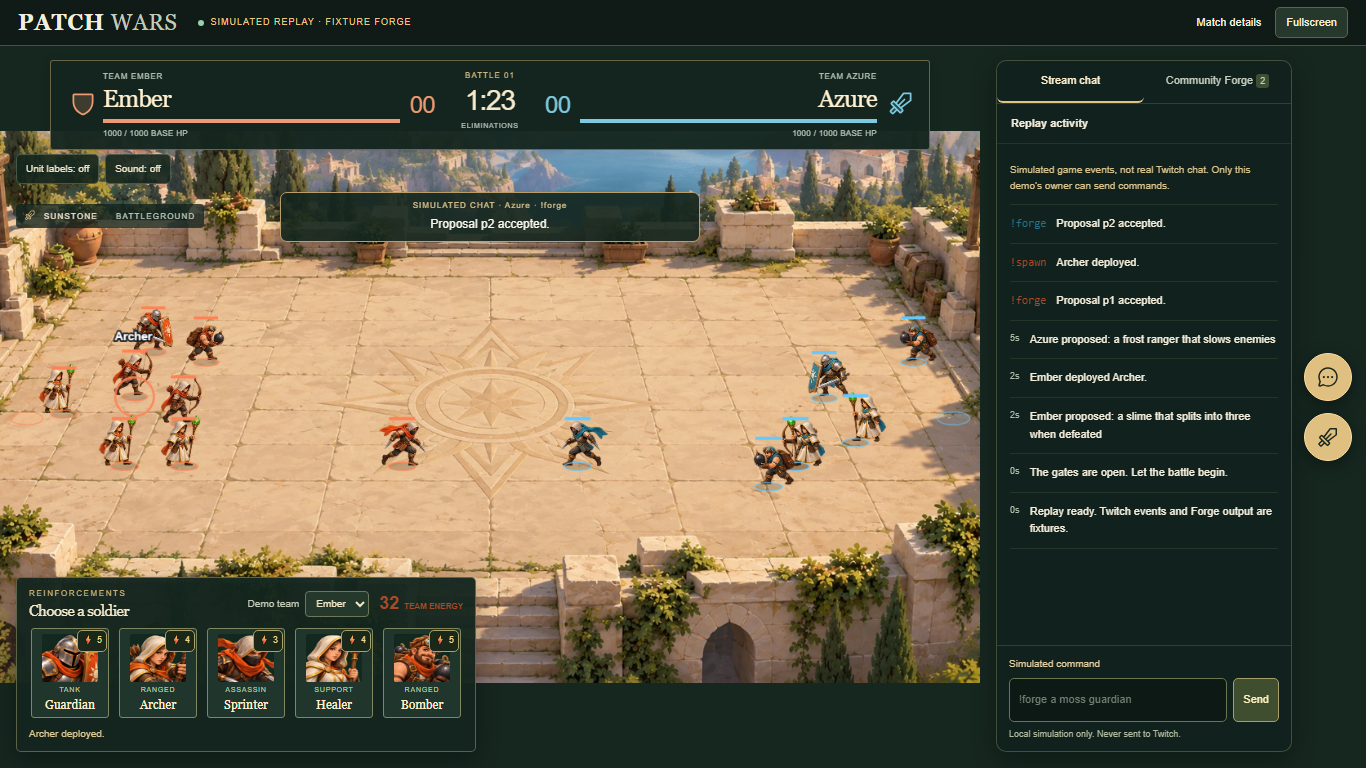
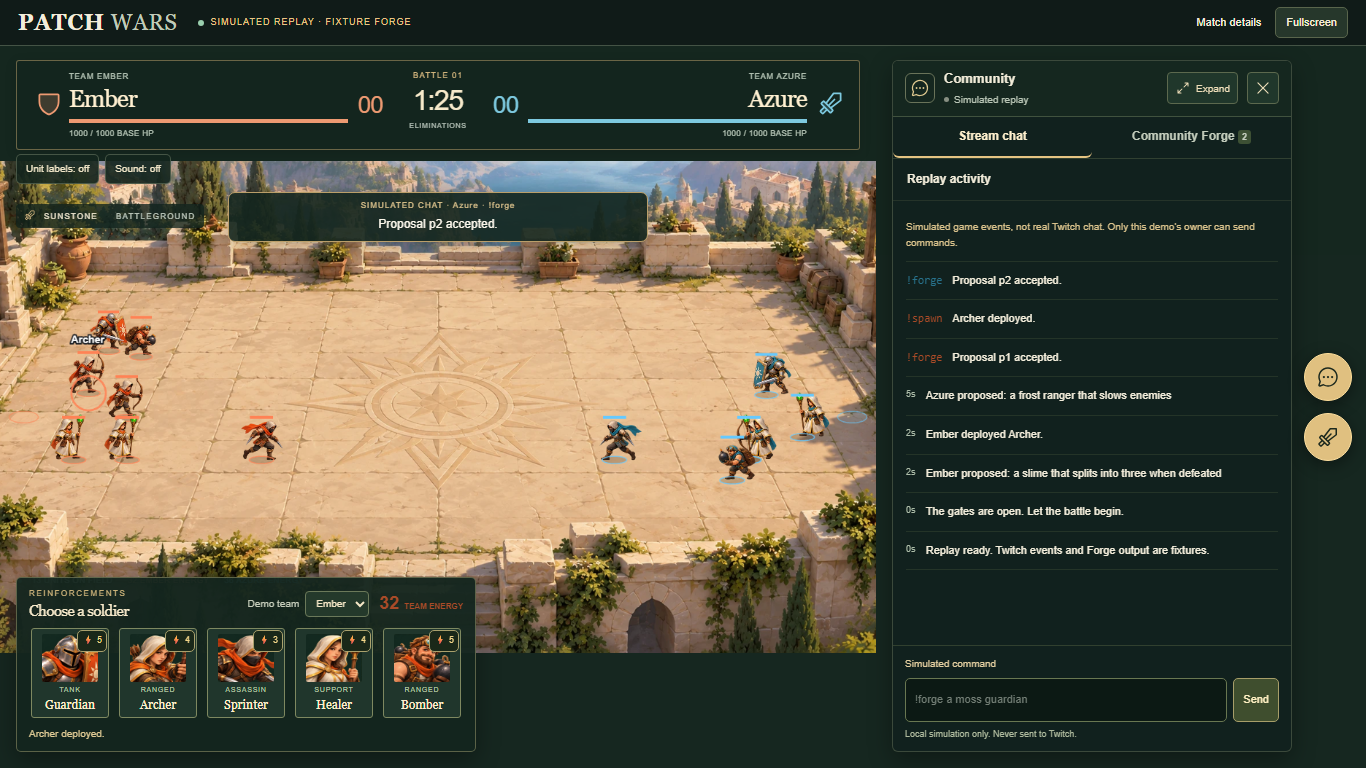
docs(chat): record native settings repair and responsive verification

Changed region(s): [[0.0, 0.0938, 0.9531, 0.9688], [0.2152, 0.4062, 0.4919, 0.6562], [0.1845, 0.4688, 0.2152, 0.5]]

diff --git a/docs/chat-dock.md b/docs/chat-dock.md
@@ -1,0 +1,26 @@
+# Chat dock sizing and scrolling repair
+
+The supplied screenshot showed Twitch's settings controls cut off at the right edge. A read-only check of the actual connected channel reproduced the issue: the app gave Twitch a **294 px** iframe, while the native settings popup was **320 px** wide and extended past its viewport. The native document did not expose horizontal scrolling, so adding scroll to the whole page would not solve the underlying viewport mismatch.
+
+## Shipped behavior
+
+- Standard chat docks are 400 px wide, increasing to 420 px on large displays. Tablet and short landscape layouts use 380 px. The battle reserves the corresponding space, so the dock does not cover its controls.
+- **Expand** gives a wider 560 px desktop dock. On phones it opens a tall reading panel with the launcher icons in a separate bottom rail. **Restore** returns to the compact dock. Opening soldier controls restores the docked layout so those controls remain usable.
+- The Community header groups channel connection status, Expand/Restore and Close. The channel row retains Open chat as the official Twitch popout fallback. Zero proposal counts no longer add a redundant badge; positive counts remain visible.
+- Twitch receives a minimum 360 × 480 viewport. If the available space is smaller, the surrounding chat region scrolls rather than shrinking or clipping Twitch's controls. It has visible scrollbars and keyboard support: focus the scroll region, use Home/End vertically and arrow keys to pan. The overall page does not gain horizontal overflow.
+- The outer viewport initially shows the actual composer and follows it when a full-size panel shrinks. A user's explicit outer scroll position is preserved when possible. Twitch still controls its own message-history scrolling, preferences, login, emotes and sending.
+- Expand, Restore, Close and the existing icon toggle retain the same iframe and draft. Close returns keyboard focus to the chat icon. The game, canvas, room, OAuth and commands are unchanged. The chat panel remains opaque and unfiltered; launcher tooltips cannot cover the embed.
+
+The layout follows the adjustable dock pattern described in Twitch's [Chat & Events guide](https://help.twitch.tv/s/article/creator-chat-and-events?language=en_US). Native Twitch content stays inside its [official chat embed](https://dev.twitch.tv/docs/embed/chat/); the app does not restyle its cross-origin settings or add another composer.
+
+## Evidence
+
+- `screenshots/chat-before-repair.png`: real native settings popup clipped in the old dock.
+- `screenshots/chat-after-repair.png`: real native settings popup fully visible in the new 398 px inner viewport.
+- `screenshots/chat-mobile-expanded.png`: real native settings displayed in the expanded 390 × 844 phone layout.
+
+These captures were read-only inspections of the connected local room at different times; match scores are not a before/after game-state comparison. No Twitch message was posted and no Twitch preference was changed during inspection. A first mobile inspection looked for a gear button that Twitch replaces while its settings menu is open; the subsequent inspection checked the already-open menu instead and captured it successfully.
+
+The new browser tests use a labelled external-service fixture with the native menu's observed width, a scrollable message history, a composer and a retained draft. They check desktop menu bounds, 560 px expansion, Close focus return, no iframe reload, exact paused game equality, vertical keyboard scrolling, full phone settings visibility, native message-list scrolling, restoring the composer and horizontal keyboard panning on a 320 px phone. Chromium visibility tracking also checks the composer is unobscured. The actual Twitch inspection above supplements those mocked regression checks; neither is a new authenticated live-send test.
+
+Final verification: typecheck, lint, production build, all 138 unit/integration tests and all 30 browser cases passed. The full browser run used one fresh isolated built server and took 3.4 minutes. The development server and connected Twitch room were left running; no backend, auth, origin, game-core or extension behavior changed.

diff --git a/docs/live-experience.md b/docs/live-experience.md
@@ -9,6 +9,9 @@ The video reference combines a broadcast battle with controls on top of Twitch's
 3. The session that authorized the broadcaster can use that channel account immediately; the account is named beside the soldier controls. Other viewers select **Sign in with Twitch to deploy**. Viewer authorization does not grant host access. It uses the existing registered `/auth/twitch/callback` and exact allowed browser origin. Accounts/tokens remain server-side. Switch account explicitly authorizes a different player identity.
 4. Select a unit card to spend the same shared team energy as `!spawn <unit>`. No money or Bits are charged. Cards also include approved generated units as they enter the catalog. The server enforces energy, cooldowns, caps, pause and phase rules, independently of button state.
 5. Opening **Chat** loads the selected live channel's official Twitch chat. Hiding and reopening the panel retains the same iframe. Twitch may require its own login and browser storage permission; the app's soldier authorization cannot log you into Twitch's iframe. Use **Open chat** if the browser blocks the embed. The parent parameter is derived from the current hostname, not user input.
+
+   Use **Expand** in the Community header for wider desktop chat or a tall phone reading view. **Restore** returns to the dock, and Close returns focus to the chat icon. Short or narrow screens can scroll the surrounding chat region to reach native settings and the composer; these actions retain the iframe and its draft. See [chat dock sizing and scrolling](chat-dock.md).
+
 6. **Stream chat** has only Twitch's official message box. The duplicate green app-owned composer has been removed. Conversation works between rounds. Chat commands execute through EventSub; soldier cards and the **Community Forge** command field still submit game actions directly. Demo chat keeps its explicitly simulated command field. Receipts distinguish TWITCH CHAT, VIEWER CONTROLS and TWITCH EXTENSION.
 7. The Community Forge tab shows current proposals, phase, generated name/status and balance count. Vote buttons submit the existing `!vote <proposal-id>` command. The host still controls round transitions in the dashboard.
 

diff --git a/docs/testing.md b/docs/testing.md
@@ -1,5 +1,7 @@
 # Testing
 
+Chat dock follow-up: all **138 unit/integration tests** and the full **30-case browser suite** passed on the final isolated built-server run (3.4 minutes). Typecheck, lint and build passed. Two new browser cases reproduce native-menu sizing, keyboard/native-history scrolling, expansion, retained drafts/iframe, focus return and unchanged paused game state across desktop, short landscape, portrait and 320 px layouts. Real read-only Twitch settings captures supplement the mocked tests; no new real message send is claimed. See [chat dock repair](chat-dock.md).
+
 Sunstone visual update: **138 unit/integration tests across 29 files** and the full **28-case browser suite** passed. Typecheck, lint, web/server build and extension build passed. The new browser case observes real sprite pose progression, a retained canvas through portrait camera switching, actual fixture deployment, and pause with unchanged authoritative game state. Browser-rendered desktop/phone screenshots, an actual fixture-motion recording and the combined visual review are linked in [Sunstone implementation](sunstone-battleground.md) and [design QA](../design-qa.md). An initial pause-counter assertion sampled before the periodic diagnostic flush; the final case allows that window to settle before asserting freeze. No gameplay timing was changed to satisfy it.
 
 Earlier chat/control repair verification: **134 tests across 28 files** and **27 browser tests** passed. The suite covers existing app flows, match closure, expanded viewing, the stream stage, native extension frontend, readiness, renderer recovery and owner rematch/chat/expired-account flows. Earlier evidence remains in [Field Studio verification](field-studio-verification.md), [priority improvements](priority-improvements.md), [live experience](live-experience.md) and [chat/control repair](chat-controls-repair.md). Follow the [manual rehearsal](manual-rehearsal.md) for demo and actual Twitch/OBS checks.

diff --git a/README.md b/README.md
@@ -87,6 +87,8 @@ Presentation readiness checks private setup without generating AI output. Lazy r
 
 Open `/stream-demo` for a direct stream-style preview. Chat and Choose a soldier start as two icon buttons; click either to open its panel, then click again to hide it. Both panels fit the same viewport on desktop and mobile. Closing panels preserves the battle canvas and chat embed. Demo activity remains visibly simulated.
 
+The chat dock has **Expand/Restore**, Close and Open chat controls. Its wider viewport keeps Twitch's settings menu visible; small screens can scroll the chat region, and Expand provides a taller phone reading view. The same iframe and draft survive layout changes. See [chat dock repair](docs/chat-dock.md).
+
 The dashboard and spectator page's existing **Theater view** and **Fullscreen** buttons also open this complete layout in place. They keep the same room URL, canvas, unit-label and sound state; Escape/Exit theater returns to the original workspace. The old battlefield-only expanded layout has been replaced.
 
 The broadcaster's authorizing session can use soldier buttons with its existing channel account. Live Stream chat has only Twitch's official composer, using Twitch's own browser login; the duplicate green form has been removed. The Community Forge field remains a direct game-command input. Owners can open the soldier panel and **Start rematch** when a round ends. See [chat and control repair](docs/chat-controls-repair.md) for authentication, errors and verification limits.
